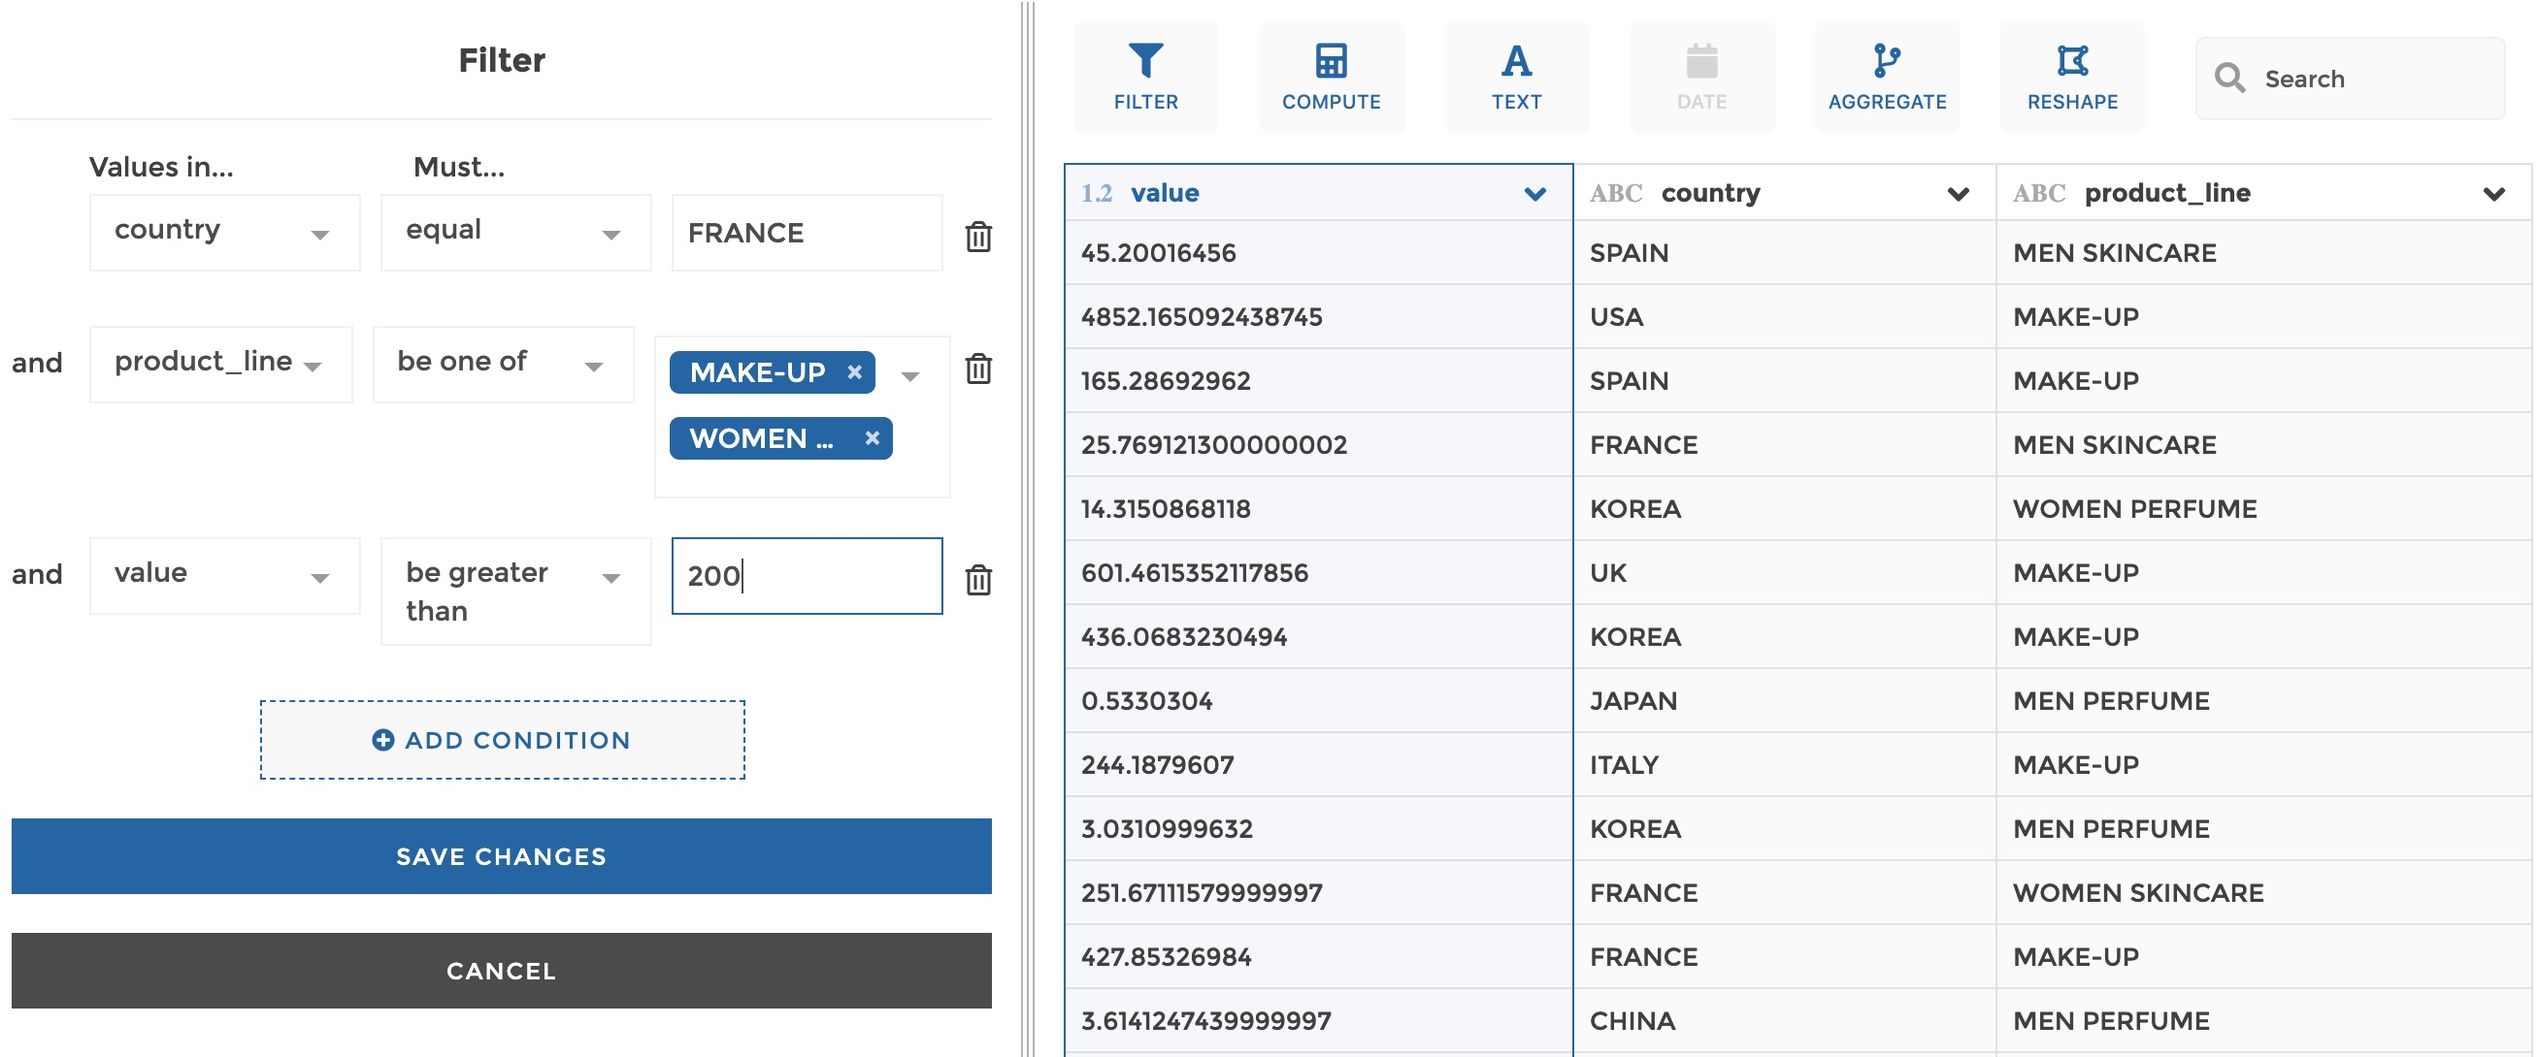
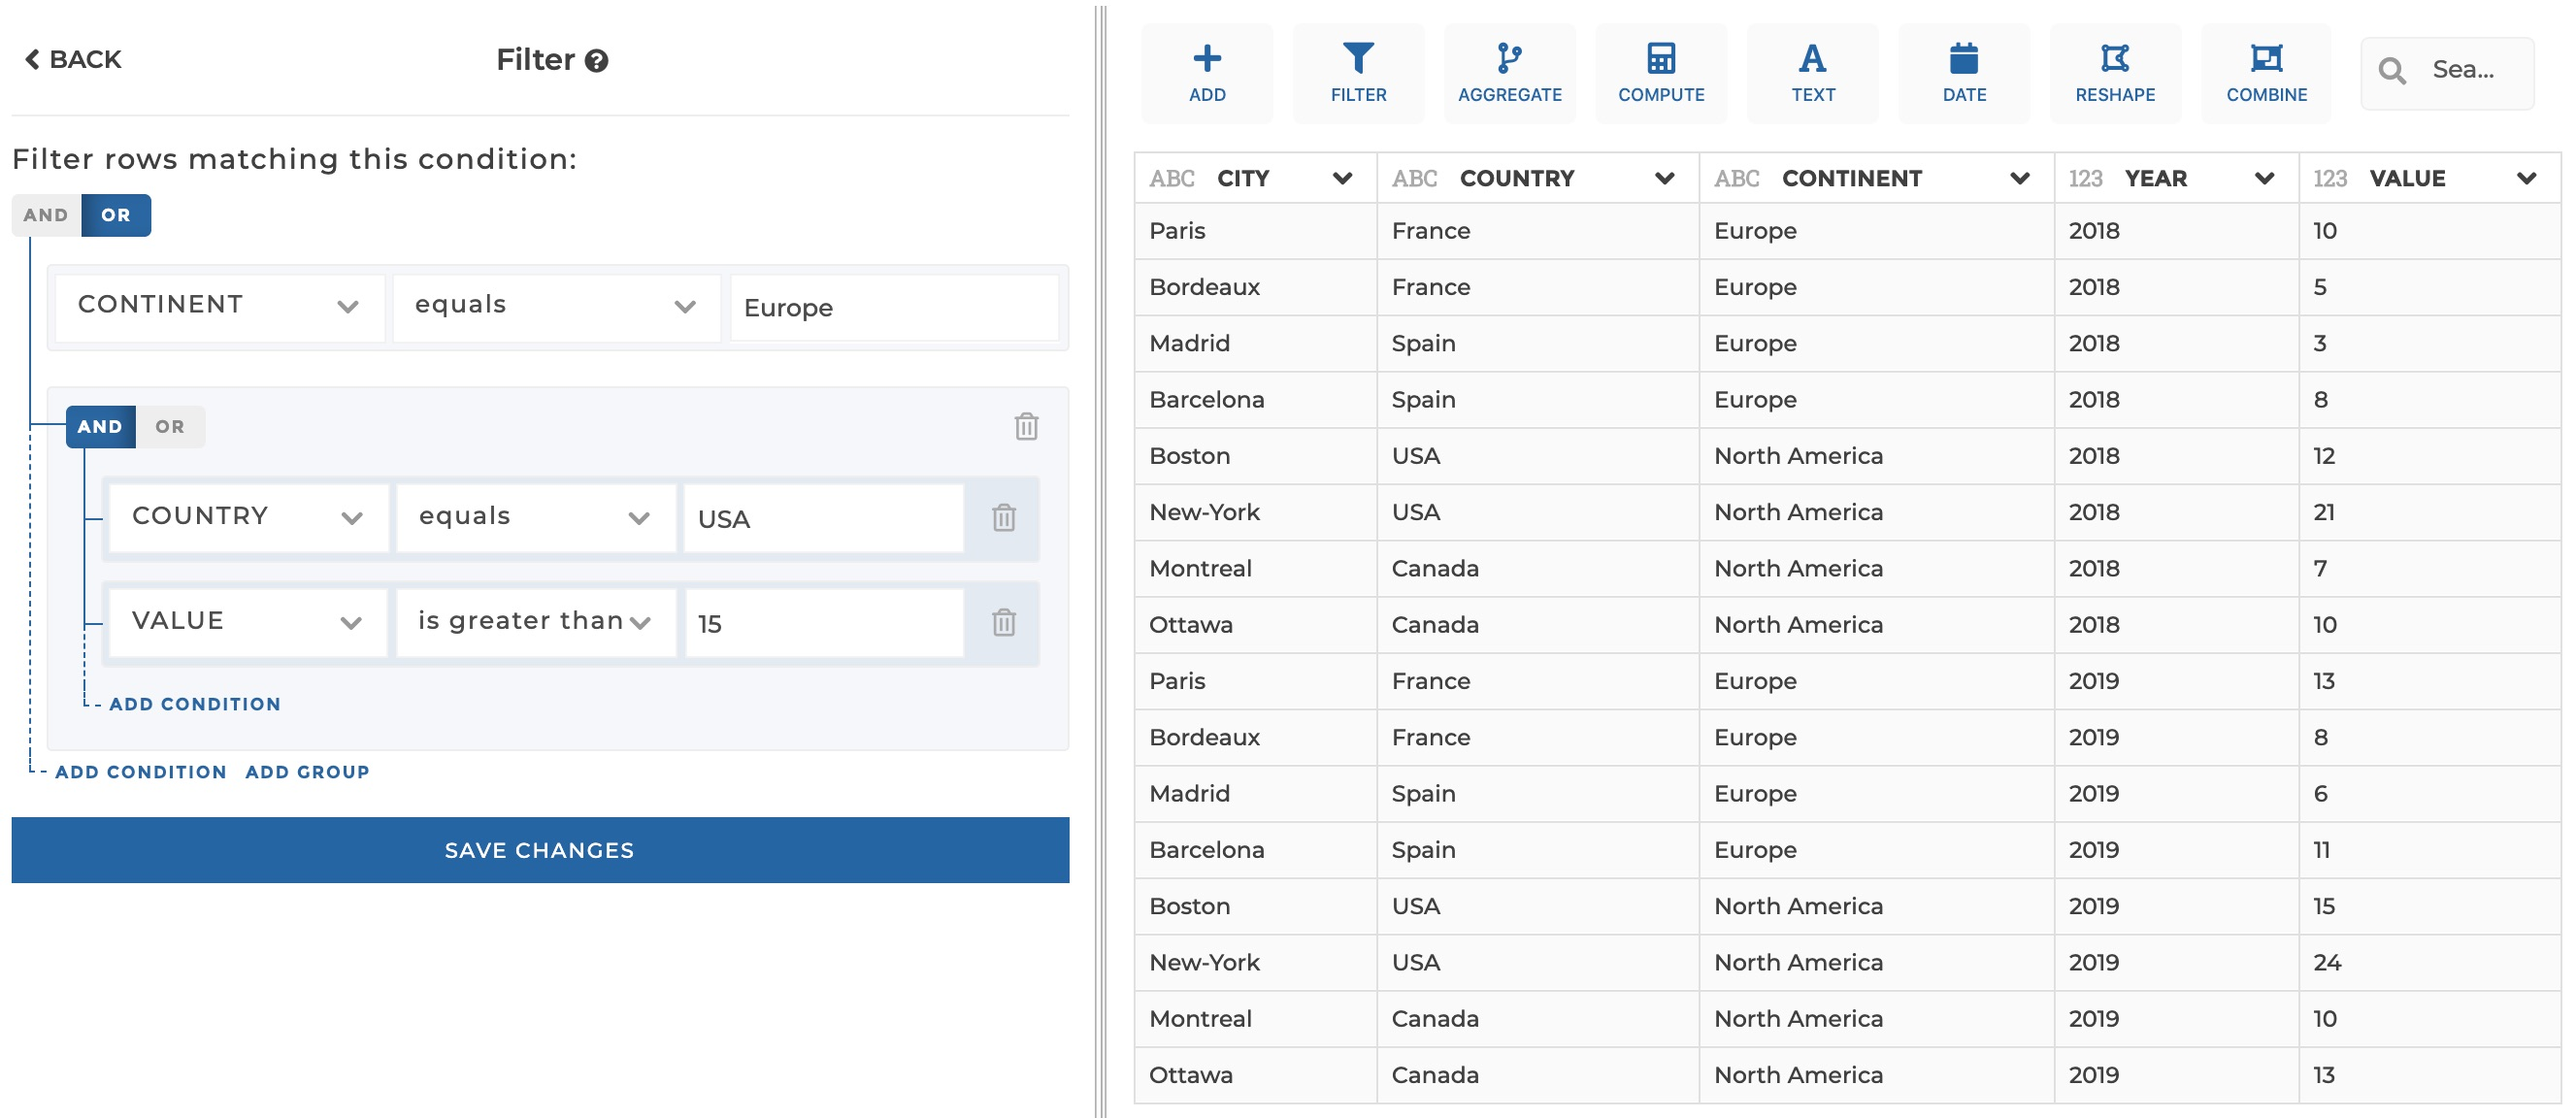
filter step :: update UI doc

diff --git a/docs/_docs/user-interface/filter.md b/docs/_docs/user-interface/filter.md
@@ -23,18 +23,18 @@ moment, we only support `and` as logical link between conditions.
 
 <img src="../../img/docs/user-interface/filter_step_form.jpg" width="350" />
 
-- `Values in ...`: the target column
+You can specify either one or several condition(s) to filter rows.
+A simple condition is defined by a target column, a comparison operator
+("equals", "doesn't equal"...) and an input where you can specify value(s) to be
+compared to.
 
-- `Must...`: a comparison operator (equal, not equal etc.)
+You can either add a simple condition line, or a group of simple conditions
+that you can bind by either an "AND" or an "OR" logical operator.
+Note that you cannot nest a group of conditions in another group.
 
-- Then you can enter value(s) to be compared to. For `be one of` and `not be one
-  of` operators, you can enter several values. For the `be null` and `not be
-  null` operators, you do not need to enter any value as it is a comparison
-  aginst `null` values. `matches` and `notmatches` operators are used to test
-  value against a regular expression.
-
-- `Add condition`: use this button if you need to add a new condition line. The
-  retained rows will be those match every condition (logical `and`)
+> Tip: If you need to filter null values, use the dedicated operators "null" or
+> "not null". If you try to write the value 'null' with an "equals" or
+> "does not equal" operator, it will be considered as text, not as a null value.
 
 #### Example
 
